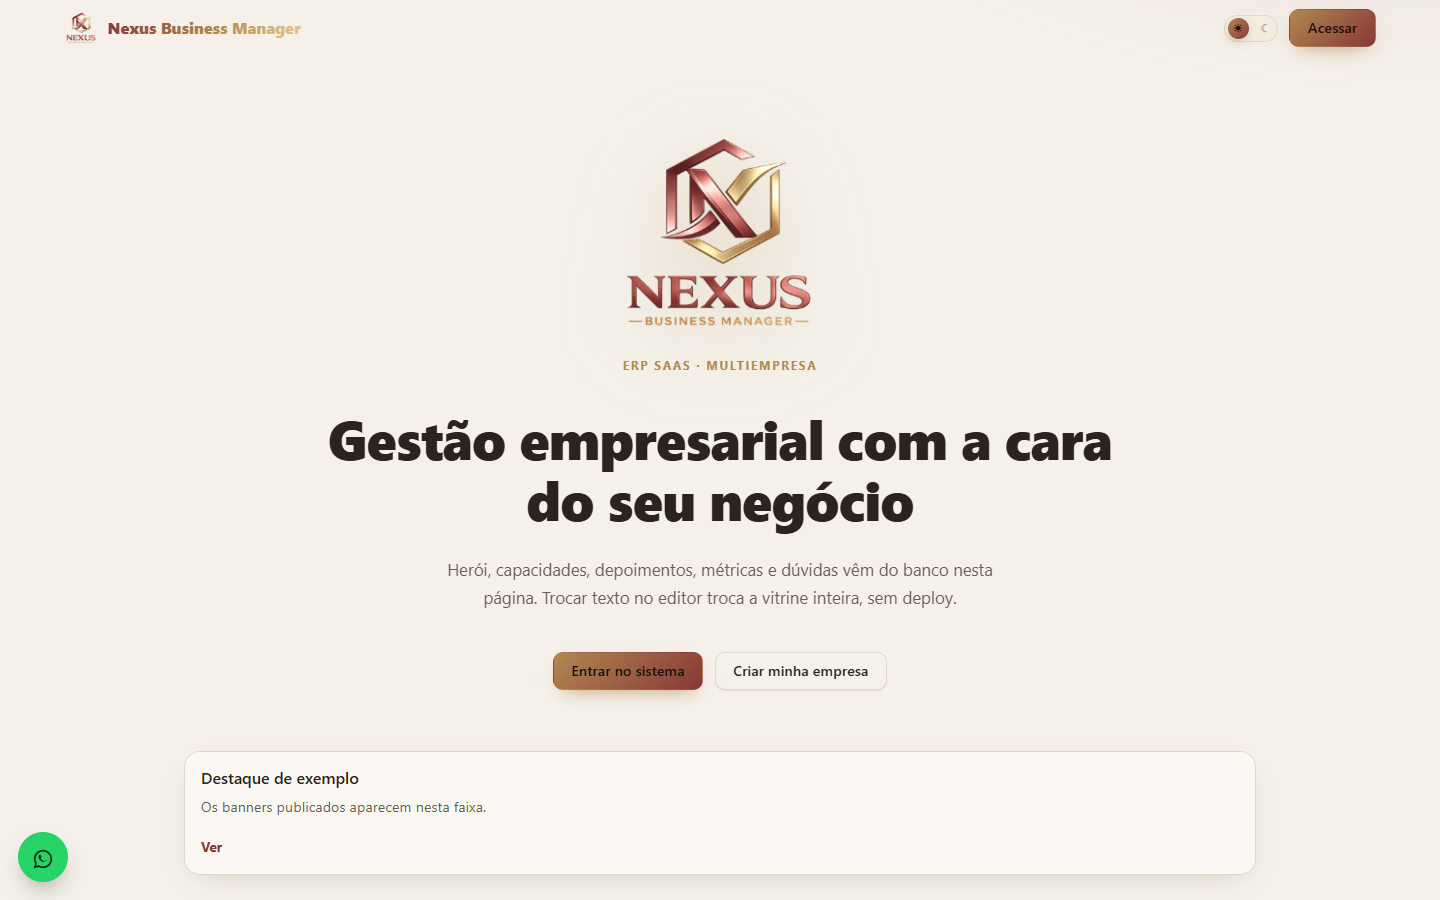
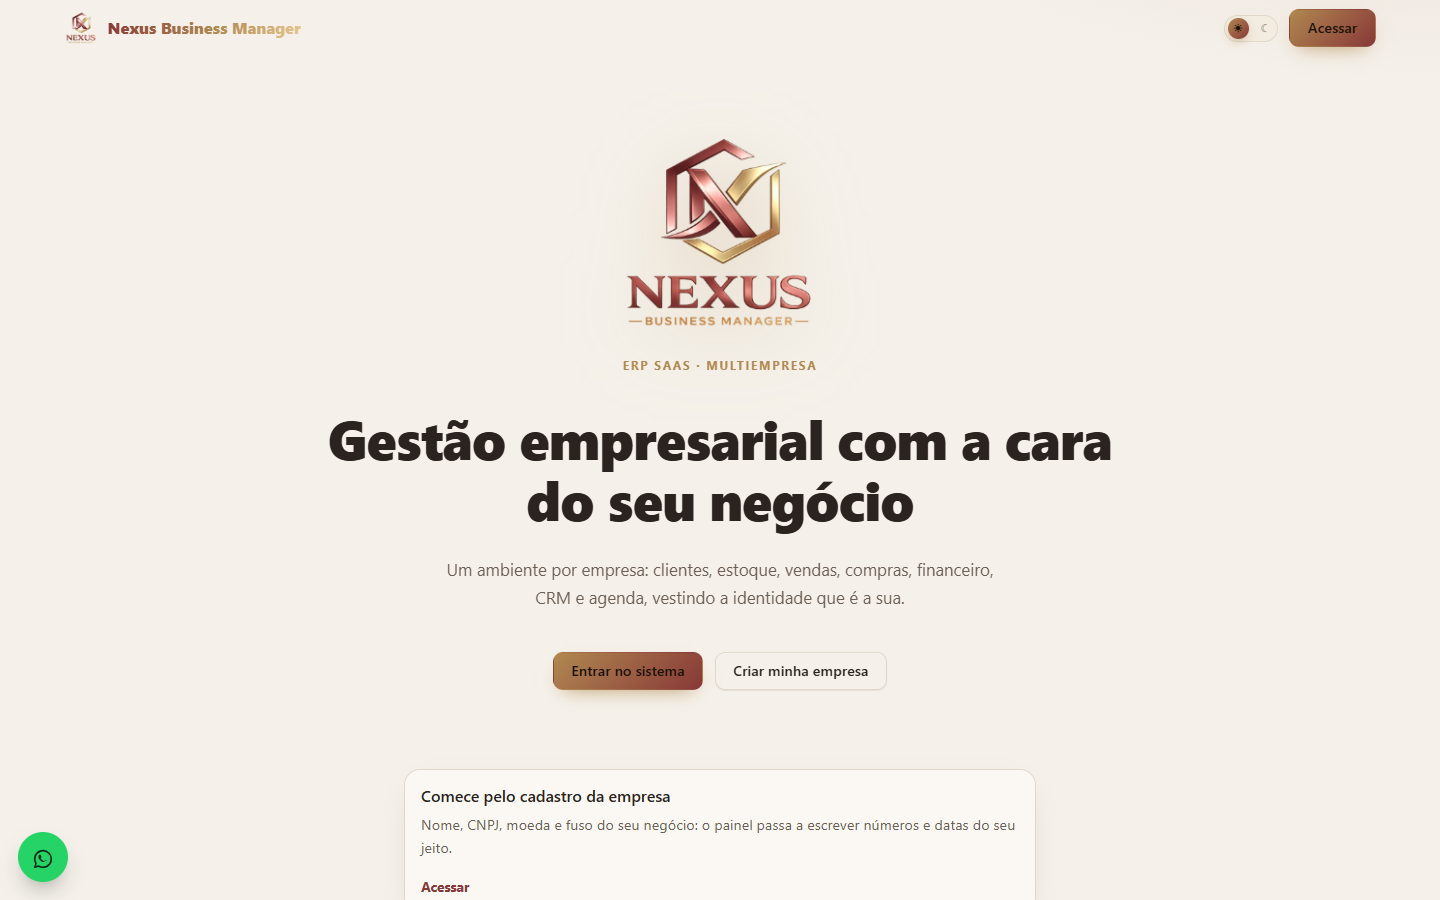
A vitrine deixou de ter buraco: o respiro passou a ser um só e o "Sobre" ganhou duas colunas cheias
Medido em 1440x900 antes da troca, a linha da seção "Sobre" tinha 450px e a
coluna do título, 63px — um vazio debaixo de um h2 sozinho. O parágrafo de
apresentação desceu para debaixo do título e a coluna passou a medir 257px
contra os 343px da coluna do detalhe. Nenhum parágrafo novo foi escrito para
preencher: o que estava folgado de um lado só mudou de coluna.

A grade de capacidades carregava 4rem de respiro próprio, então havia 109px
antes do "Sobre" e 45px entre os outros blocos. O respiro foi para o
.landing-main, uma distância só. A página inteira mede 1.545px no lugar de
1.687px com o mesmo texto. Um destaque sozinho estreita a faixa para 760px em
vez de esticar um cartão de 1.120px com duas linhas no canto, e o link passou a
dizer "Acessar" quando a rota é interna e "Abrir link" quando é externa.

valorDaMetrica saiu de dentro do componente e virou lib, com sete casos de
teste: número com pontuação brasileira, moeda, porcentagem, unidade, texto,
valor ausente e formato desconhecido. A API só aceita número em "valor", então
era no teste, e não na tela, que moeda e porcentagem podiam ser provados sem
mentir para o visitante. As três capturas da vitrine montada pelo banco saíram
desta rodada.

Changed region(s): [[0.125, 0.84, 0.7188, 0.9956], [0.3125, 0.6222, 0.6875, 0.6844], [0.125, 0.9333, 0.1562, 0.9644]]

diff --git a/apps/web/src/components/landing/AboutSection.tsx b/apps/web/src/components/landing/AboutSection.tsx
@@ -1,5 +1,5 @@
-import { formatCurrency } from "../../lib/format";
-import { numeroMeta, textoMeta, type ItemMetrica } from "../../lib/landingTypes";
+import { valorDaMetrica } from "../../lib/metricaVitrine";
+import type { ItemMetrica } from "../../lib/landingTypes";
 import { SOBRE_LANDING } from "./copy";
 
 // "Sobre" com texto do produto, não do vendedor: o que está no ar, o que ainda
@@ -7,21 +7,26 @@ import { SOBRE_LANDING } from "./copy";
 // que o dono do site cadastre uma métrica de verdade na seção seguinte.
 export function AboutSection({ metricas }: { metricas: ItemMetrica[] }) {
   return (
-    // Duas colunas de leitura: o título abre a esquerda e os parágrafos ocupam a
-    // direita. Centrar só o bloco de texto deixava a vitrine inteira com um
-    // buraco de cada lado, e era isso que encolhia a seção.
+    // Duas colunas de leitura, e as duas com conteúdo: o título abre a esquerda
+    // com o parágrafo de apresentação embaixo dele, e os três parágrafos
+    // seguintes ocupam a direita. Com o título sozinho naquela coluna a linha
+    // media 450px de altura contra 63px de conteúdo — os ~380px em branco embaixo
+    // do título eram o espaço vazio que a vitrine mostrava aqui.
     <section className="landing-sobre" id="sobre" aria-label="Sobre o sistema">
       <div className="landing-sobre-titulo">
         <h2>{SOBRE_LANDING.titulo}</h2>
+        {/* A abertura é a frase que apresenta o produto: fica junto do título,
+            não no topo da coluna do detalhe. */}
+        <p className="landing-sobre-lead">{SOBRE_LANDING.paragrafos[0]}</p>
       </div>
       <div className="landing-sobre-texto">
-        {SOBRE_LANDING.paragrafos.map((paragrafo) => (
+        {SOBRE_LANDING.paragrafos.slice(1).map((paragrafo) => (
           <p key={paragrafo.slice(0, 24)}>{paragrafo}</p>
         ))}
       </div>
       {metricas.length > 0 && (
         // As métricas, quando o dono cadastra, atravessam a linha inteira em
-        // faixa — embaixo do texto, para não brigar com a coluna do título.
+        // faixa — embaixo das duas colunas, para não brigar com o texto.
         <ul className="landing-metricas" aria-label="Números do produto">
           {metricas.map((metrica) => (
             <li className="card-surface" key={metrica.id}>
@@ -34,19 +39,4 @@ export function AboutSection({ metricas }: { metricas: ItemMetrica[] }) {
       )}
     </section>
   );
-}
-
-// O `meta` da métrica é o mesmo objeto validado pelo servidor: valor numérico
-// (ou texto), formato e unidade. Formato desconhecido cai em número — nunca em
-// um "R$ " na frente de um valor que não é dinheiro.
-function valorDaMetrica(metrica: ItemMetrica): string {
-  const formato = textoMeta(metrica.meta, "formato") || "numero";
-  if (formato === "texto") return textoMeta(metrica.meta, "valor");
-  const valor = numeroMeta(metrica.meta, "valor");
-  if (valor === null) return "";
-  if (formato === "moeda") return formatCurrency(valor);
-  const base = new Intl.NumberFormat("pt-BR").format(valor);
-  if (formato === "porcentagem") return `${base}%`;
-  const unidade = textoMeta(metrica.meta, "unidade");
-  return unidade ? `${base} ${unidade}` : base;
 }

diff --git a/apps/web/src/test/metrica-da-vitrine.test.ts b/apps/web/src/test/metrica-da-vitrine.test.ts
@@ -1,0 +1,47 @@
+// @vitest-environment node
+// A vitrine mostra o número que o dono cadastrou, escrito do jeito do produto.
+// Os quatro formatos aceitos pela API (`formato` em apps/api/src/modules/cms/
+// cms.schemas.ts) mais os dois casos que ninguém deve ver na tela: valor
+// ausente e formato desconhecido. A prova de navegador só consegue
+// cadastrar número, porque é o que a API aceita em `valor` — então moeda,
+// porcentagem e texto são provados aqui, e não com cifra inventada na página.
+import { describe, expect, it } from "vitest";
+import { valorDaMetrica } from "../lib/metricaVitrine";
+import type { ItemMetrica } from "../lib/landingTypes";
+
+function metrica(meta: Record<string, unknown> | null): ItemMetrica {
+  return { id: "mede-1", title: "Medida", body: null, meta };
+}
+
+// O Intl do navegador separa o símbolo do valor com espaço indivisível; o teste
+// normaliza as duas variantes de espaço que aparecem entre as versões de ICU.
+function espacoNormal(texto: string): string {
+  return texto.replace(/[\u00a0\u202f]/g, " ");
+}
+
+describe("Métrica cadastrada no CMS chega à vitrine escrita certo", () => {
+  it("número vem com a pontuação brasileira", () => {
+    expect(valorDaMetrica(metrica({ valor: 12500, formato: "numero" }))).toBe("12.500");
+  });
+  it("moeda usa o padrão brasileiro enquanto a empresa não escolhe outra", () => {
+    const saida = espacoNormal(valorDaMetrica(metrica({ valor: 1234.5, formato: "moeda" })));
+    expect(saida).toBe("R$ 1.234,50");
+  });
+  it("porcentagem ganha o sinal depois do número", () => {
+    expect(valorDaMetrica(metrica({ valor: 42.5, formato: "porcentagem" }))).toBe("42,5%");
+  });
+  it("unidade cadastrada vem atrás do número", () => {
+    expect(valorDaMetrica(metrica({ valor: 7, formato: "numero", unidade: "módulos" }))).toBe("7 módulos");
+  });
+  it("texto é mostrado como foi escrito, sem formatação de número", () => {
+    expect(valorDaMetrica(metrica({ valor: "Um só lugar", formato: "texto" }))).toBe("Um só lugar");
+  });
+  it("sem valor numérico a linha fica vazia em vez de mostrar zero", () => {
+    expect(valorDaMetrica(metrica({ formato: "moeda" }))).toBe("");
+    expect(valorDaMetrica(metrica(null))).toBe("");
+  });
+  it("formato desconhecido cai em número e nunca em moeda", () => {
+    expect(valorDaMetrica(metrica({ valor: 10, formato: "arbitrario" }))).toBe("10");
+    expect(valorDaMetrica(metrica({ valor: 10 }))).toBe("10");
+  });
+});

diff --git a/apps/web/src/styles/landing.css b/apps/web/src/styles/landing.css
@@ -26,12 +26,17 @@ html {
   }
 }
 
+/* Ritmo único entre as seções. Antes havia 45px entre o herói e as capacidades
+   e 109px antes do "Sobre", porque a grade de capacidades carregava um respiro
+   próprio de 4rem além do espaço do container. Medido em 1440x900, isso dava uma
+   vitrine que afrouxa em um ponto e aperta no seguinte; agora a distância entre
+   blocos é a mesma em toda a página. */
 .landing-main {
   flex: 1 0 auto;
   display: flex;
   flex-direction: column;
-  gap: clamp(2rem, 5vh, 3.5rem);
-  padding-bottom: clamp(2rem, 5vh, 3.5rem);
+  gap: clamp(2.75rem, 7vh, 5.5rem);
+  padding-bottom: clamp(2.5rem, 6vh, 4.5rem);
 }
 
 .landing-carregando {
@@ -96,6 +101,12 @@ html {
   border-radius: 16px;
   overflow: hidden;
 }
+/* Um destaque sozinho não pode virar um card de 1120px com duas linhas de texto
+   encostadas no canto: a faixa se estreita e volta a ser chamada. Com dois ou
+   mais, a grade continua atravessando a linha inteira. */
+.landing-banners:has(.landing-banner:only-child) {
+  max-width: 760px;
+}
 .landing-banner-img {
   width: 100%;
   height: 150px;
@@ -137,9 +148,17 @@ html {
   letter-spacing: -0.02em;
   margin-bottom: 0.9rem;
 }
+/* A abertura, agora na coluna do título: cor cheia e um corpo acima do
+   detalhe, porque é a frase que apresenta o produto. */
+.landing-sobre-lead {
+  margin: 0.9rem 0 0;
+  color: var(--text);
+  font-size: 1.06rem;
+  line-height: 1.7;
+}
 /* A barra curta de cobre é a única assinatura deste título — os demais h2 da
    vitrine seguem no traço de sempre. */
-.landing-sobre h2::after {
+.landing-sobre-titulo h2::after {
   content: "";
   display: block;
   width: 64px;
@@ -157,11 +176,6 @@ html {
 }
 .landing-sobre-texto p:last-child {
   margin-bottom: 0;
-}
-/* O primeiro parágrafo é a apresentação do produto: um degrau acima do resto. */
-.landing-sobre-texto p:first-of-type {
-  color: var(--text);
-  font-size: 1.06rem;
 }
 .landing-metricas {
   list-style: none;

diff --git a/apps/web/src/lib/metricaVitrine.ts b/apps/web/src/lib/metricaVitrine.ts
@@ -1,0 +1,22 @@
+import { formatCurrency } from "./format";
+import { numeroMeta, textoMeta, type ItemMetrica } from "./landingTypes";
+
+// O `meta` da métrica é o mesmo objeto validado pelo servidor: valor numérico
+// (ou texto), formato e unidade. Formato desconhecido cai em número — nunca em
+// um "R$ " na frente de um valor que não é dinheiro.
+//
+// Foi para um módulo próprio porque é lógica de exibição com quatro caminhos, e
+// é aqui que um teste de unidade alcança cada um deles. A prova de navegador só
+// consegue mostrar o que a API aceita cadastrar, e a API aceita número em
+// `valor` — deixar o moeda na tela significaria publicar um valor inventado.
+export function valorDaMetrica(metrica: ItemMetrica): string {
+  const formato = textoMeta(metrica.meta, "formato") || "numero";
+  if (formato === "texto") return textoMeta(metrica.meta, "valor");
+  const valor = numeroMeta(metrica.meta, "valor");
+  if (valor === null) return "";
+  if (formato === "moeda") return formatCurrency(valor);
+  const base = new Intl.NumberFormat("pt-BR").format(valor);
+  if (formato === "porcentagem") return `${base}%`;
+  const unidade = textoMeta(metrica.meta, "unidade");
+  return unidade ? `${base} ${unidade}` : base;
+}

diff --git a/apps/web/src/components/landing/BannerStrip.tsx b/apps/web/src/components/landing/BannerStrip.tsx
@@ -20,7 +20,10 @@ export function BannerStrip({ banners }: { banners: ItemBanner[] }) {
                 target={banner.link.startsWith("/") ? undefined : "_blank"}
                 rel="noopener noreferrer"
               >
-                Ver
+                {/* "Ver" sozinho não diz aonde se vai. Rota interna abre o
+                    próprio sistema; endereço de fora é link externo — ações
+                    diferentes pedem palavras diferentes. */}
+                {banner.link.startsWith("/") ? "Acessar" : "Abrir link"}
               </a>
             )}
           </div>

diff --git a/apps/web/src/styles/components.css b/apps/web/src/styles/components.css
@@ -635,11 +635,13 @@
   line-height: 1.12;
 }
 .landing-subtitle { color: var(--text-2); font-size: 1.05rem; line-height: 1.65; max-width: 62ch; }
+/* O respiro de baixo saiu daqui e passou para o .landing-main, para que todas
+   as seções tenham a mesma distância entre si. */
 .landing-features {
   display: grid;
   grid-template-columns: repeat(auto-fit, minmax(min(240px, 100%), 1fr));
   gap: 1rem;
-  padding: 1rem clamp(1.25rem, 5vw, 4rem) 4rem;
+  padding: 0 clamp(1.25rem, 5vw, 4rem);
   max-width: 1200px;
   margin: 0 auto;
   width: 100%;
